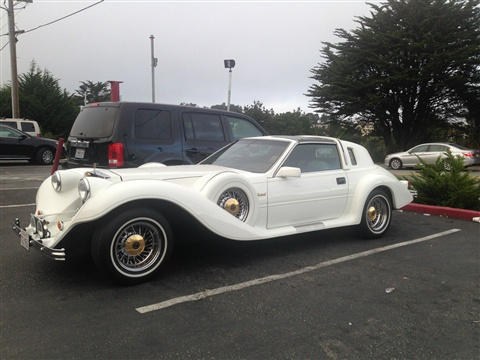
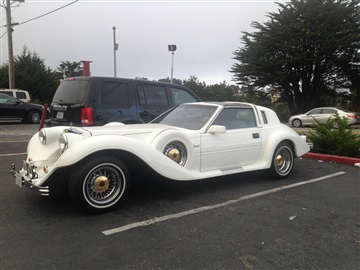
update

diff --git a/src/main/resources/templates/gallery.html b/src/main/resources/templates/gallery.html
@@ -4,6 +4,8 @@
     <meta charset="UTF-8">
     <title>Chauffeur Services Gallery</title>
     <link rel="stylesheet" th:href="@{/css/style.css}">
+    <link rel="stylesheet" th:href="@{/css/gallery_style.css}">
+    <link rel="stylesheet" href="https://cdnjs.cloudflare.com/ajax/libs/font-awesome/6.5.0/css/all.min.css">
 </head>
 <body>
     <div class="container-fluid site-wrapper">
@@ -24,7 +26,7 @@
                                     <div class="content">
                                         <!-- Video -->
                                         <div class="section article">
-                                            <div class="content">
+                                            <div class="content video-wrapper">
                                                 <video th:src="${galleryVideoUrl}"
                                                        controls
                                                        style="width:100%; max-height:400px; background:#000;"></video>
@@ -34,10 +36,12 @@
                                         <div class="section article" style="margin-top: 30px;">
                                             <div class="content">
                                                 <ul class="thumbnails column-article-section">
-                                                    <li class="span3" th:each="img : ${galleryImages}">
-                                                        <div class="img-simple span12">
+                                                    <li th:each="entry : ${entries}">
+                                                        <div class="img-simple">
                                                             <div class="image">
-                                                                <img th:src="${img}" style="height:100px; object-fit:cover; width:100%;">
+                                                                <img th:src="${entry.imageUrl}"
+                                                                     th:alt="${entry.title}"
+                                                                     th:attr="onclick=|showImageInLightbox('${entry.imageUrl}', '${entry.title}')|">
                                                             </div>
                                                         </div>
                                                     </li>
@@ -61,5 +65,47 @@
         <!-- Footer -->
         <div th:replace="fragments/footer :: frag-footer"></div>
     </div>
+
+    <!-- Lightbox container -->
+    <div id="lightbox" style="display:none; position:fixed; top:0; left:0; width:100%; height:100%;
+    background:rgba(0,0,0,0.6); z-index:9999; justify-content:center; align-items:center;">
+
+        <!-- Popup box -->
+        <div style="background: #111; padding: 30px; border-radius: 8px; box-shadow: 0 0 30px rgba(0,0,0,0.7); max-width: 90vw; max-height: 90vh; overflow: auto; text-align: center; position: relative;">
+
+            <!-- Close button -->
+            <span onclick="closeLightbox()"
+                  style="position: absolute; top: 10px; right: 15px; font-size: 30px; color: white; cursor: pointer;">&times;</span>
+
+            <!-- Image -->
+            <img id="lightbox-img" src=""
+                 style="max-width: 100%; height: auto; display: block; margin: 0 auto 15px auto;">
+
+            <!-- Title -->
+            <div id="lightbox-title" style="color: white; font-size: 18px;"></div>
+        </div>
+    </div>
+    <!-- JavaScript script -->
+    <script>
+        function showImageInLightbox(url, title) {
+            const lightbox = document.getElementById("lightbox");
+            const img = document.getElementById("lightbox-img");
+            const caption = document.getElementById("lightbox-title");
+
+            img.src = url;
+            caption.innerText = title || "";
+            lightbox.style.display = "flex";
+        }
+
+        function closeLightbox() {
+            document.getElementById("lightbox").style.display = "none";
+        }
+
+        document.addEventListener("keydown", function(e) {
+            if (e.key === "Escape") {
+                closeLightbox();
+            }
+        });
+    </script>
 </body>
 </html>

diff --git a/src/main/resources/static/css/gallery_style.css b/src/main/resources/static/css/gallery_style.css
@@ -1,0 +1,49 @@
+.video-wrapper {
+    max-width: 700px;
+    width: 100%;
+    margin-bottom: 30px;
+}
+
+ul.thumbnails.column-article-section {
+    display: grid;
+    grid-template-columns: repeat(auto-fit, minmax(180px, 1fr));
+    gap: 20px;
+    padding: 0;
+    list-style: none;
+    justify-items: center;
+}
+
+ul.thumbnails.column-article-section li {
+    background: white;
+    border-radius: 12px;
+    box-shadow: 0 6px 12px rgba(0, 0, 0, 0.15);
+    overflow: hidden;
+    transition: transform 0.2s ease, box-shadow 0.2s ease;
+    cursor: pointer;
+    width: 100%;
+    max-width: 220px;
+    aspect-ratio: 4 / 3;
+    display: flex;
+    align-items: center;
+    justify-content: center;
+}
+
+ul.thumbnails.column-article-section li:hover {
+    transform: translateY(-2px);
+    box-shadow: 0 12px 20px rgba(0, 0, 0, 0.25);
+}
+
+.img-simple .image {
+    width: 100%;
+    height: 100%;
+    overflow: hidden;
+    border-radius: 8px;
+}
+
+.img-simple .image img {
+    width: 100%;
+    height: 100%;
+    object-fit: cover;
+    border-radius: 8px;
+    display: block;
+}

diff --git a/src/main/resources/templates/fragments/sidebar.html b/src/main/resources/templates/fragments/sidebar.html
@@ -7,9 +7,9 @@
             <div class="heading"><h4>Share this page</h4></div>
             <div class="content">
                 <ul>
-                    <li><a href="#"><span>Share on Facebook</span></a></li>
-                    <li><a href="#"><span>Share on Twitter</span></a></li>
-                    <li><a href="#"><span>Share on Google+</span></a></li>
+                    <li><a href="#"><i class="fa-brands fa-square-facebook"></i><span>Share on Facebook</span></a></li>
+                    <li><a href="#"><i class="fa-brands fa-square-twitter"></i><span>Share on Twitter</span></a></li>
+                    <li><a href="#"><i class="fa-brands fa-square-google-plus"></i><span>Share on Google+</span></a></li>
                 </ul>
             </div>
         </div>

diff --git a/src/main/resources/templates/home.html b/src/main/resources/templates/home.html
@@ -4,6 +4,7 @@
     <meta charset="UTF-8">
     <title>Chauffeur Services Home Page</title>
     <link rel="stylesheet" th:href="@{/css/style.css}">
+    <link rel="stylesheet" href="https://cdnjs.cloudflare.com/ajax/libs/font-awesome/6.5.0/css/all.min.css">
 </head>
 <body>
     <div class="container-fluid site-wrapper">

diff --git a/src/main/resources/templates/contact.html b/src/main/resources/templates/contact.html
@@ -4,6 +4,7 @@
     <meta charset="UTF-8">
     <title>Chauffeur Services Contact Page</title>
     <link rel="stylesheet" th:href="@{/css/style.css}">
+    <link rel="stylesheet" href="https://cdnjs.cloudflare.com/ajax/libs/font-awesome/6.5.0/css/all.min.css">
 </head>
 <body>
 <div class="container-fluid site-wrapper">

diff --git a/src/main/java/com/lab231/chauffeur/controller/GalleryController.java b/src/main/java/com/lab231/chauffeur/controller/GalleryController.java
@@ -25,7 +25,7 @@ public class GalleryController {
         long viewCount = pageViewService.increaseView(PageName.ENTRY.name);
         List<Character> viewCountDigits = pageViewService.getPaddedViewCountDigits(viewCount);
         model.addAttribute("galleryVideoUrl", galleryVideoService.getMainVideo());
-        model.addAttribute("galleryImages", entryService.getAllImageUrls());
+        model.addAttribute("entries", entryService.findAll());
         model.addAttribute("viewCountDigits", viewCountDigits);
         return "gallery";
     }
